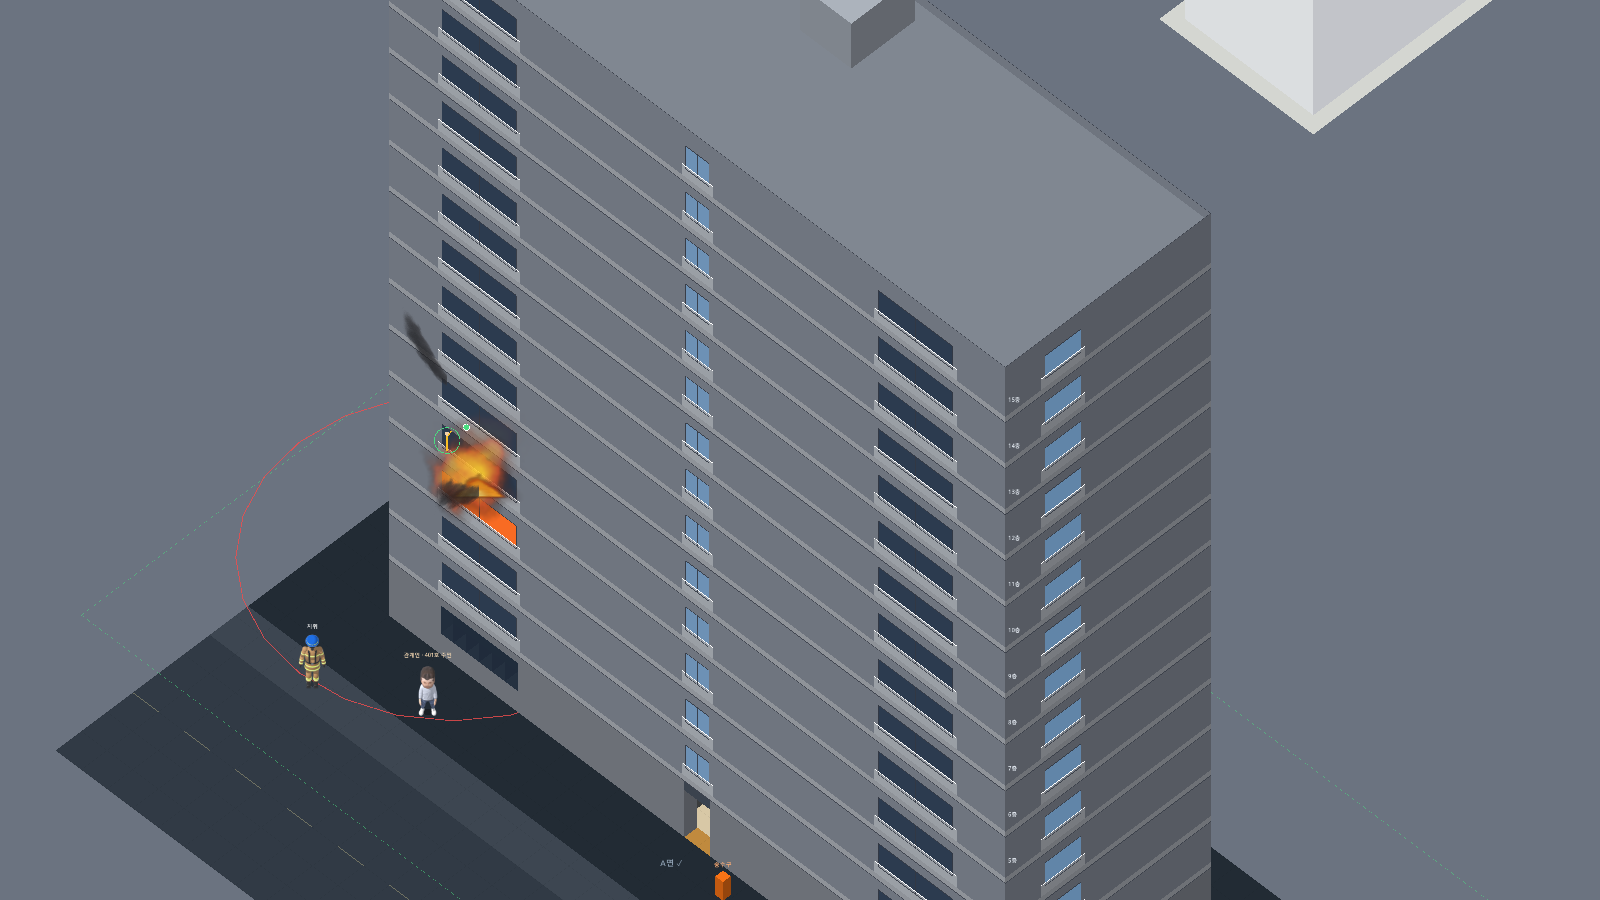
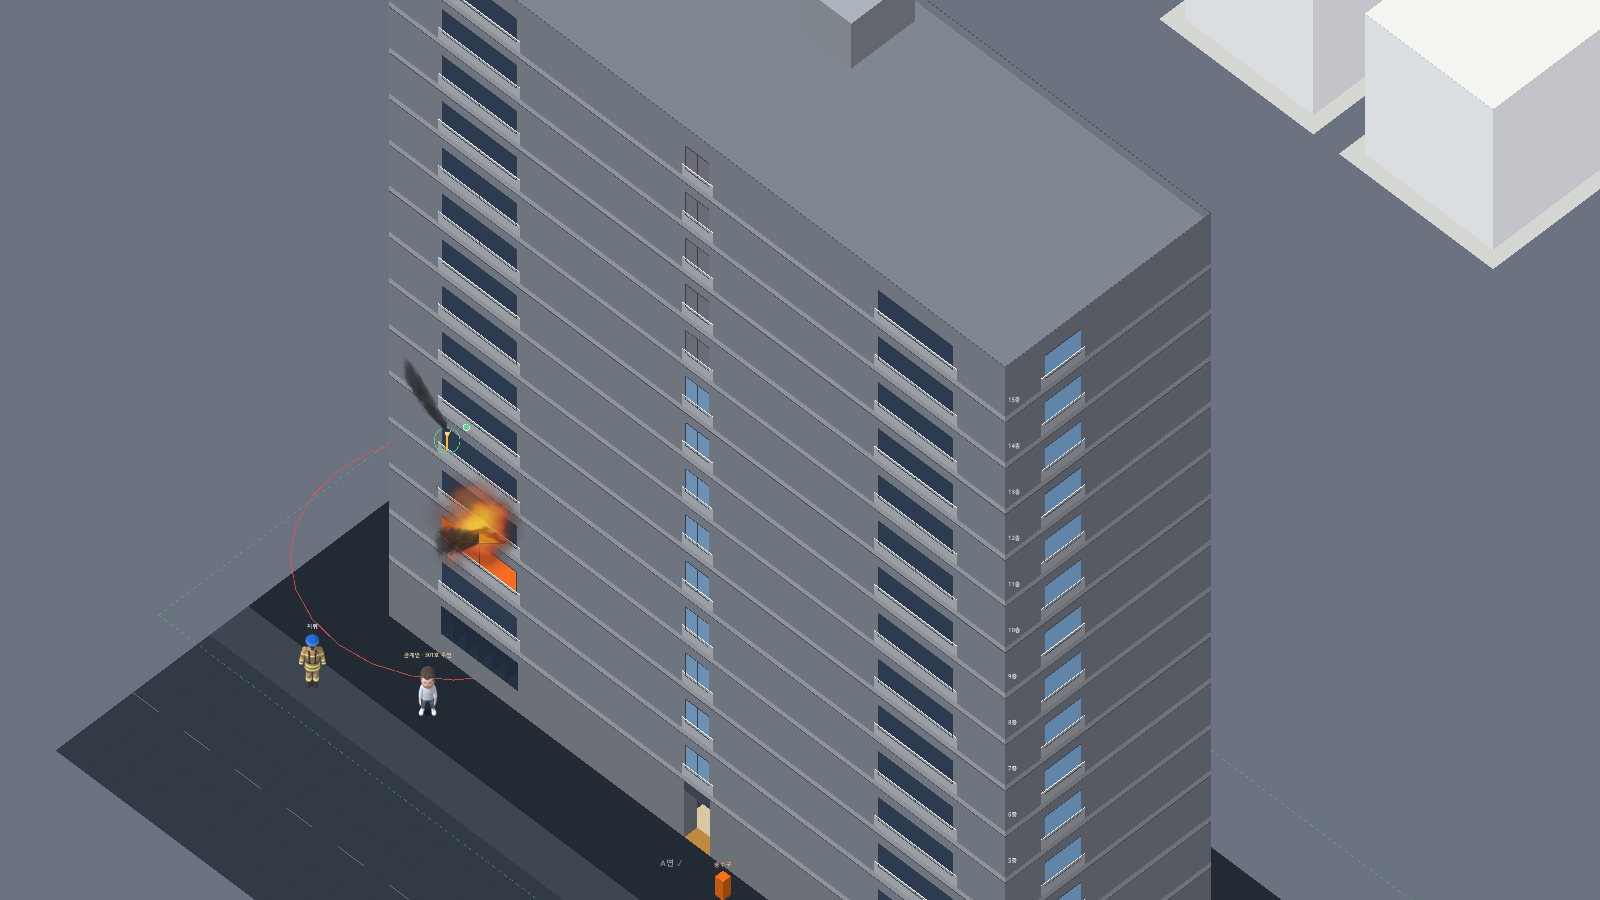
F01: 위·아래 한 층씩만 보이고 더 있는 층은 반쯤 잘린 벽(투명 그라데이션)으로

diff --git a/docs/decisions.md b/docs/decisions.md
@@ -131,3 +131,4 @@
 | 2026-11-12 | F01 | 위층 바닥 턱 폭 | 1.5 → 1.1m | 사용자 결정 |
 | 2026-11-12 | F01 | 위층 뒷벽·턱 진하기 | 0.4 → 0.7 | 사용자 제안 — 위층 벽·턱이 지금 층 방 안을 가리지 않으니 더 진하게 해 입체감을 살림. 턱이 1층 뒷벽 창 윗부분을 조금 덮어 완전 불투명은 피함 |
 | 2026-11-12 | F01 | 아래층은 온전히(흑백) | 위층(턱·점선)과 달리 아래층은 구조(바닥·벽·가구)를 온전히 그린다 — 지금 층이 가리는 곳은 자연히 안 보이고 앞쪽 띠만 보인다. 흑백 + 밝기 72%로 구분, 연기·불은 그리지 않음, 그 층 사람은 점선 테두리. 땅 층이 아래로 보이면 차량·바깥 사람은 원래 색(바깥 땅 겹). 건물 종류와 상관없이 같은 규칙. 위층 벽 상자는 바닥판 두께만큼 아래로 늘려 턱과 아랫면을 맞춤 | 사용자 제안·결정 — 아래층은 지금 층을 가리지 않으니 뜯어낼 이유가 없고, 건물이 아래로 이어진 것이 읽힘 |
+| 2026-11-12 | F01 | 위·아래 한 층씩 + 잘린 벽 | 함께 보이는 층을 위·아래 각 2개 → 1개 층(바로 위 = 턱·뒷벽, 바로 아래 = 흑백 온전)으로. 그 너머에 층이 더 있으면 잘린 벽만: 위쪽은 한 층 위에 뒷벽·왼쪽 벽을 반 층 높이(±불규칙)로 세워 위로 갈수록 투명, 아래쪽은 바닥 아래로 앞·오른쪽 바깥벽을 반 층 내려 아래로 갈수록 투명. 먼 층에는 대원·요구조자 등 아무것도 그리지 않음(층 막대로 안다). 1층 밑(땅)·생략 층으로는 잇지 않음. 먼 층은 화면에서 클릭 불가(층 막대·PgUp/PgDn) | 사용자 제안·결정 — 먼 층은 '더 있다'는 뜻만 있으면 됨 (단면도의 파단선). 화면이 깔끔하고 그리는 양이 줆 |

diff --git a/docs/progress.md b/docs/progress.md
@@ -56,3 +56,4 @@
 | 2026-11-12 | F01 턱 깨진 가장자리·입체 계단 | scripts/ui/building/floor_layer(_draw_upper_ledge)·view_params, scripts/ui/iso_view(지금 층 upper_level), data/ui/view_params(ghost_ledge_m 1.5·ghost_ledge_jag_m), tests/test_cutaway | 다음: 튜토리얼 단계 정비 |
 | 2026-11-12 | F01 지금 층 뒷벽 사라짐 고침 | scripts/ui/building/floor_layer(_draw_mask는 depth > 0 일 때만), tests/ui_cutaway(확인 항목) | 원인: 입체 계단용으로 지금 층에 upper_level을 넘기자 '위층 바닥에 가려지는 칸 빼기'가 지금 층에도 적용됨 (632a4e7에서 생김) |
 | 2026-11-12 | F01 아래층 온전히(흑백) | scripts/ui/iso_view(아래층 ghost_mode 0·self_modulate·skip_live·people_outline·바깥 땅 겹), scripts/ui/building/floor_layer(people_outline, ghost_mode 5, 위층 벽 상자 아랫면), tests(ui_cutaway 확인 항목, ui_smoke 미니맵 끌기 다시 시도) | ui_smoke '미니맵 끌기'가 이번부터 한 번에 안 될 때가 있어 다시 시도하게 고침 — 원인(끼어드는 마우스 입력으로 추정) 미확인. 다음: 튜토리얼 단계 정비 |
+| 2026-11-12 | F01 위·아래 한 층씩 + 잘린 벽 | data/ui/view_params(visible_floors_above/below 1·stub_height_ratio), scripts/ui/building/floor_stack(more_above·more_below)·floor_layer(stub_above·stub_below·_stub_face·_draw_stub_below)·view_params, scripts/ui/iso_view, tests(test_cutaway, ui_cutaway, _shot_floor 점검 도구) | 3층 이상을 볼 때 땅(차량·바깥 대원)이 화면에 안 나옴(예전에는 3층까지 보였음). 다음: 튜토리얼 단계 정비 |
